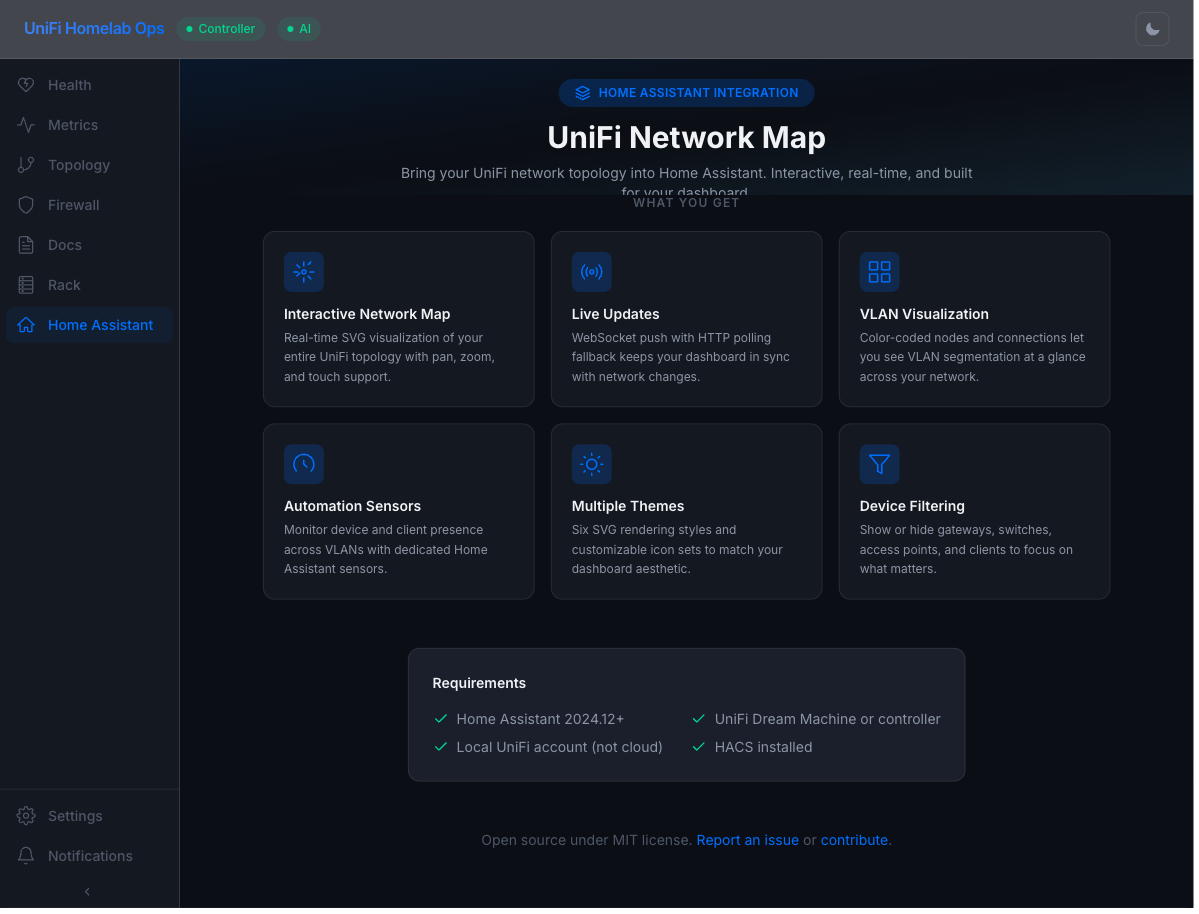
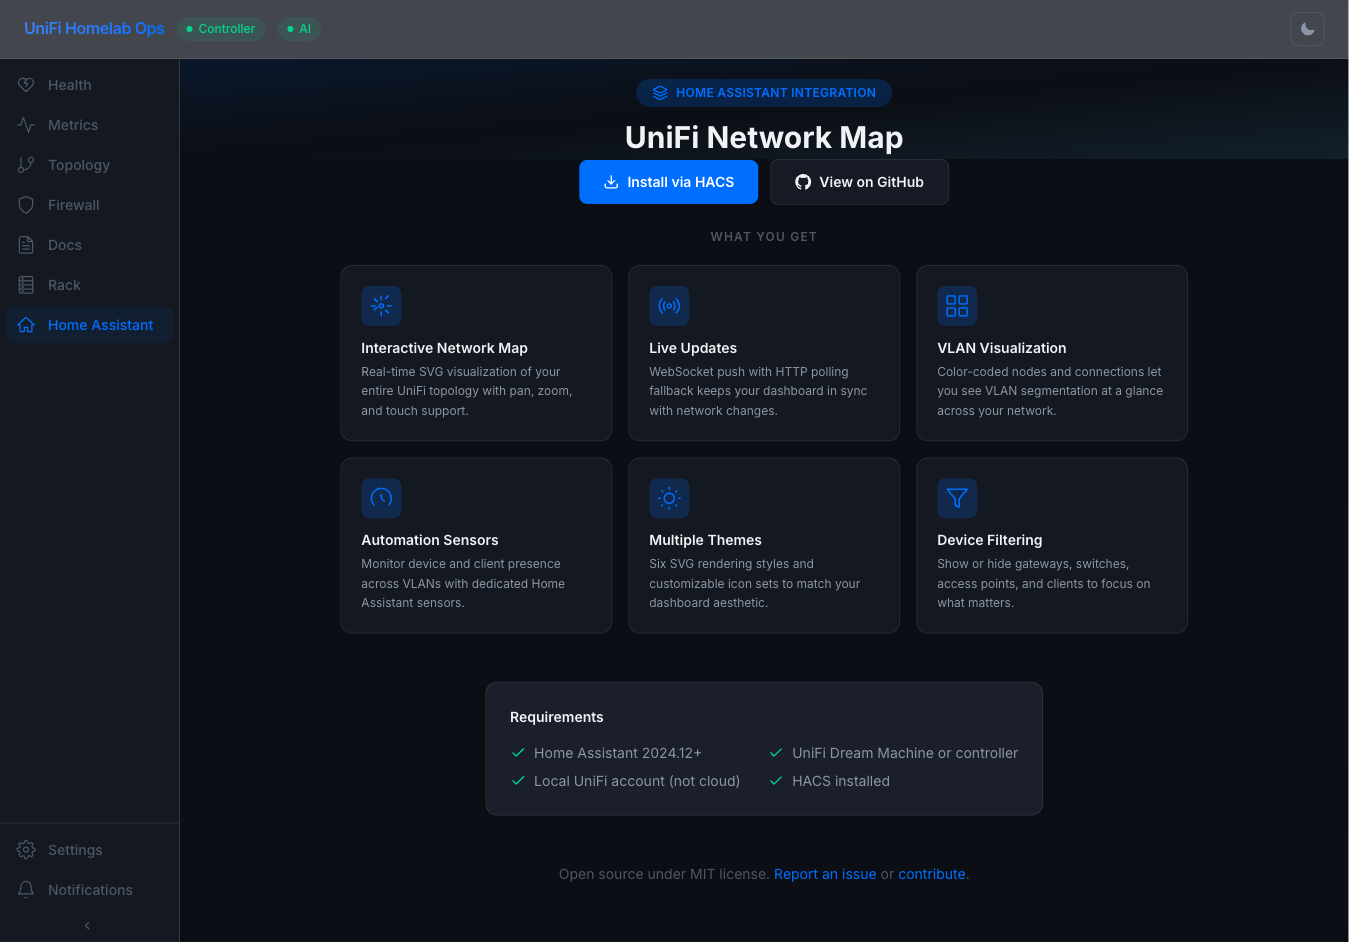
Move CTA buttons above the fold on Home Assistant page

diff --git a/frontend/src/components/HomeAssistantModule.tsx b/frontend/src/components/HomeAssistantModule.tsx
@@ -77,24 +77,26 @@ export default function HomeAssistantModule() {
           <h1 className="text-2xl lg:text-3xl font-bold text-ui-text dark:text-noc-text mb-2">
             UniFi Network Map
           </h1>
-          <p className="text-sm text-ui-text-secondary dark:text-noc-text-secondary mb-4 max-w-xl mx-auto">
+          <p className="text-sm text-ui-text-secondary dark:text-noc-text-secondary mb-2 max-w-xl mx-auto">
             Bring your UniFi network topology into Home Assistant. Interactive, real-time, and built for your dashboard.
           </p>
-          <div className="flex flex-wrap items-center justify-center gap-3">
-            <a href={HACS_INSTALL_URL} target="_blank" rel="noopener noreferrer" className={btnPrimary}>
-              <svg viewBox="0 0 24 24" fill="none" stroke="currentColor" strokeWidth="2" strokeLinecap="round" strokeLinejoin="round" className="w-4 h-4">
-                <path d="M21 15v4a2 2 0 0 1-2 2H5a2 2 0 0 1-2-2v-4" /><polyline points="7 10 12 15 17 10" /><line x1="12" y1="15" x2="12" y2="3" />
-              </svg>
-              Install via HACS
-            </a>
-            <a href={REPO_URL} target="_blank" rel="noopener noreferrer" className={btnSecondary}>
-              <svg viewBox="0 0 24 24" fill="currentColor" className="w-4 h-4">
-                <path d="M12 0c-6.626 0-12 5.373-12 12 0 5.302 3.438 9.8 8.207 11.387.599.111.793-.261.793-.577v-2.234c-3.338.726-4.033-1.416-4.033-1.416-.546-1.387-1.333-1.756-1.333-1.756-1.089-.745.083-.729.083-.729 1.205.084 1.839 1.237 1.839 1.237 1.07 1.834 2.807 1.304 3.492.997.107-.775.418-1.305.762-1.604-2.665-.305-5.467-1.334-5.467-5.931 0-1.311.469-2.381 1.236-3.221-.124-.303-.535-1.524.117-3.176 0 0 1.008-.322 3.301 1.23.957-.266 1.983-.399 3.003-.404 1.02.005 2.047.138 3.006.404 2.291-1.552 3.297-1.23 3.297-1.23.653 1.653.242 2.874.118 3.176.77.84 1.235 1.911 1.235 3.221 0 4.609-2.807 5.624-5.479 5.921.43.372.823 1.102.823 2.222v3.293c0 .319.192.694.801.576 4.765-1.589 8.199-6.086 8.199-11.386 0-6.627-5.373-12-12-12z"/>
-              </svg>
-              View on GitHub
-            </a>
-          </div>
         </div>
+      </div>
+
+      {/* CTA buttons -- outside hero to stay above the fold */}
+      <div className="flex flex-wrap items-center justify-center gap-3 px-6 pb-6">
+        <a href={HACS_INSTALL_URL} target="_blank" rel="noopener noreferrer" className={btnPrimary}>
+          <svg viewBox="0 0 24 24" fill="none" stroke="currentColor" strokeWidth="2" strokeLinecap="round" strokeLinejoin="round" className="w-4 h-4">
+            <path d="M21 15v4a2 2 0 0 1-2 2H5a2 2 0 0 1-2-2v-4" /><polyline points="7 10 12 15 17 10" /><line x1="12" y1="15" x2="12" y2="3" />
+          </svg>
+          Install via HACS
+        </a>
+        <a href={REPO_URL} target="_blank" rel="noopener noreferrer" className={btnSecondary}>
+          <svg viewBox="0 0 24 24" fill="currentColor" className="w-4 h-4">
+            <path d="M12 0c-6.626 0-12 5.373-12 12 0 5.302 3.438 9.8 8.207 11.387.599.111.793-.261.793-.577v-2.234c-3.338.726-4.033-1.416-4.033-1.416-.546-1.387-1.333-1.756-1.333-1.756-1.089-.745.083-.729.083-.729 1.205.084 1.839 1.237 1.839 1.237 1.07 1.834 2.807 1.304 3.492.997.107-.775.418-1.305.762-1.604-2.665-.305-5.467-1.334-5.467-5.931 0-1.311.469-2.381 1.236-3.221-.124-.303-.535-1.524.117-3.176 0 0 1.008-.322 3.301 1.23.957-.266 1.983-.399 3.003-.404 1.02.005 2.047.138 3.006.404 2.291-1.552 3.297-1.23 3.297-1.23.653 1.653.242 2.874.118 3.176.77.84 1.235 1.911 1.235 3.221 0 4.609-2.807 5.624-5.479 5.921.43.372.823 1.102.823 2.222v3.293c0 .319.192.694.801.576 4.765-1.589 8.199-6.086 8.199-11.386 0-6.627-5.373-12-12-12z"/>
+          </svg>
+          View on GitHub
+        </a>
       </div>
 
       {/* Features grid */}
